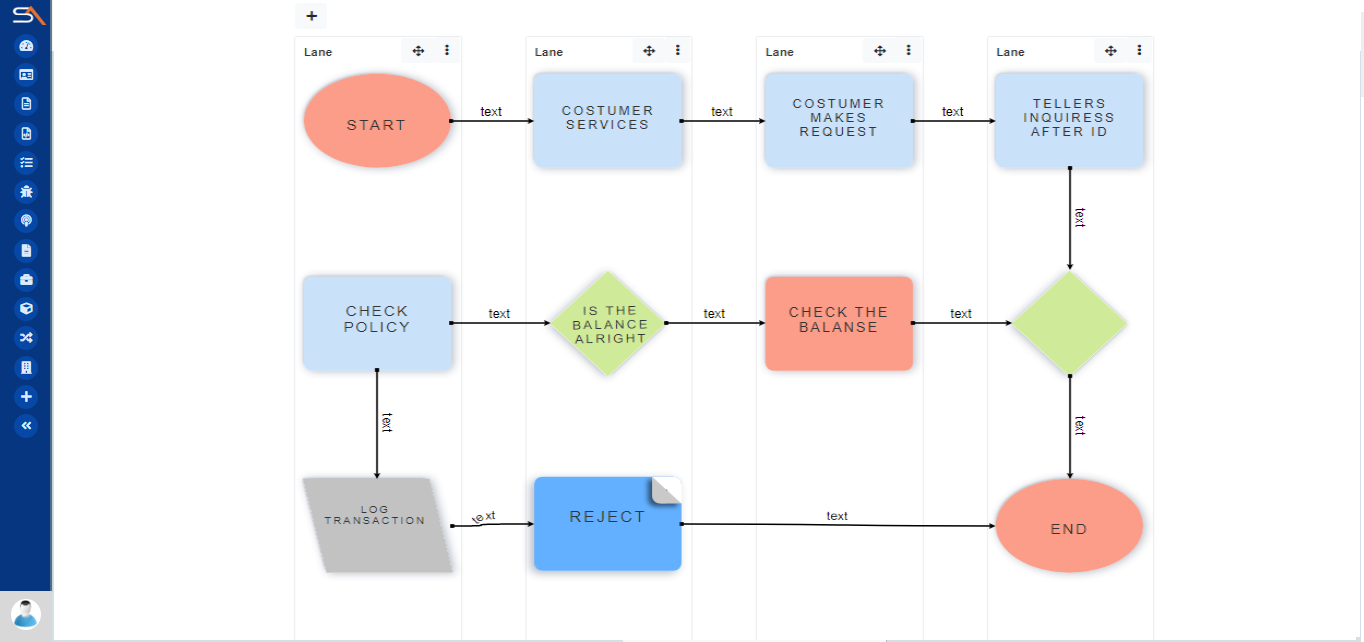
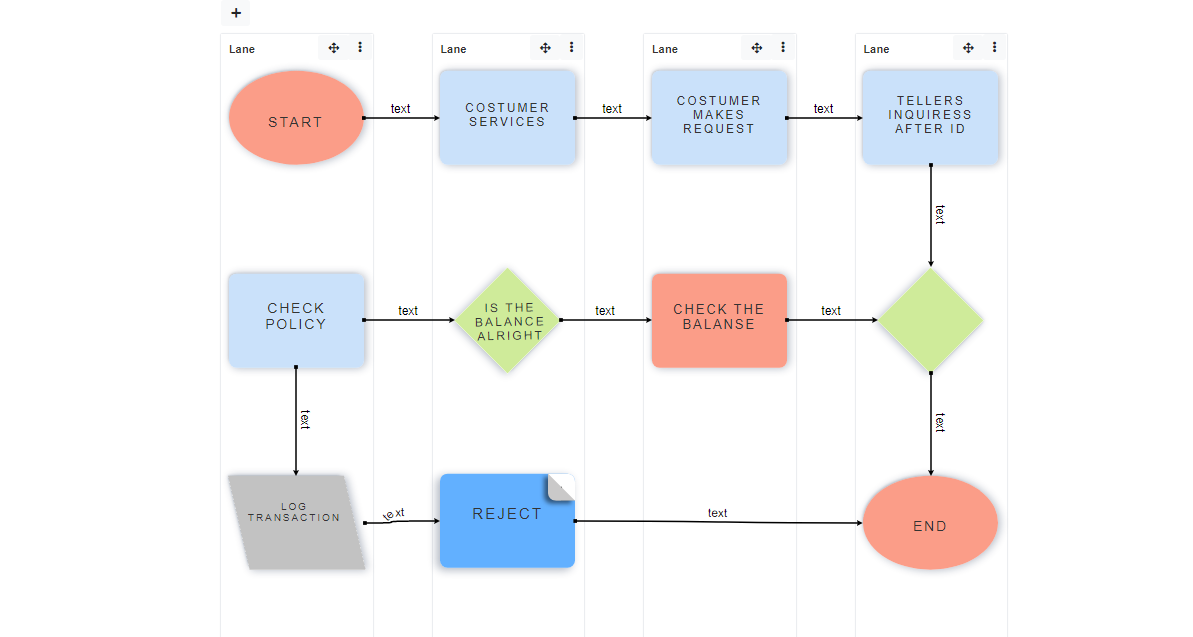
dfgh

diff --git a/index.html b/index.html
@@ -719,7 +719,7 @@ document editor section
 						 
 						  <div class="carousel-inner">
 							<div class="carousel-item active">
-							  <img class="d-block" src="image/diag3.png" alt="">
+							  <img class="d-block" src="image/diag.png" alt="">
 							</div>
 						
 							
